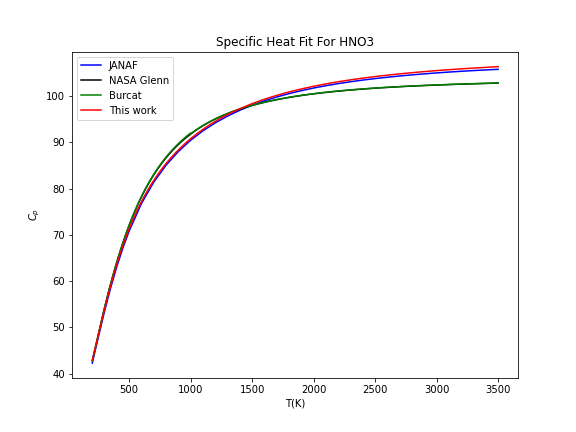
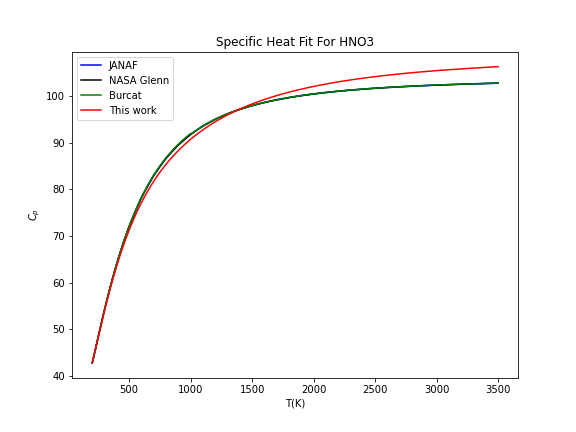
Update HNO3 and H2O2 JANAF data

diff --git a/Cp.py b/Cp.py
@@ -235,8 +235,8 @@ def get_polynomial_results(coefficients,x):
 
 def get_Tmax_this(Tmax_hitran):
     Tmax_this=dict()
-    species_list=['C2H2','ClO','CO2','CS','H2O','H2S','HCN','HI','HO2','N2','N2O','NH3','O2','PH3','SO','SO3','HCOOH']
-    Tmax_list=[1400.,1000.,3000.,3800.,3500.,2250.,1700.,3100.,1900.,2500.,1500.,1700.,500.,2200.,1500.,1400.,5000.]
+    species_list=['C2H2','ClO','CO2','H2O','H2S','HCN','HI','HO2','N2','N2O','NH3','O2','PH3','SO','SO3']
+    Tmax_list=[1400.,1000.,3000.,3500.,2250.,1700.,3100.,1900.,2500.,1500.,1700.,500.,2200.,1500.,1400.]
     for species in Tmax_hitran:
         Tmax=Tmax_hitran[species]
         if species in species_list:
@@ -726,21 +726,22 @@ if __name__ == '__main__':
     coe_nasa=get_nasa(Cp_dict)
     Tmax_this=get_Tmax_this(Tmax_hitran)
     di_J_dict, di_nasa_dict, di_Burcat_dict,di_Ca_dict, T_di_Furtenbacher, T_di_Furtenbacher_O2, T_di_SS_N, T_di_SS_P=compare_and_plot_Cp(Cp_dict,Tmax_hitran,Cp_JANAF,coe_Capitelli,coe_nasa,coe_Burcat,Tmax_this,Cp_theorets)
-    # diff_dict=compare_difference(di_J_dict, di_nasa_dict,di_Burcat_dict, di_Ca_dict, T_di_Furtenbacher, T_di_Furtenbacher_O2,T_di_SS_N, T_di_SS_P,Cp_dict,Tmax_this)
+    diff_dict=compare_difference(di_J_dict, di_nasa_dict,di_Burcat_dict, di_Ca_dict, T_di_Furtenbacher, T_di_Furtenbacher_O2,T_di_SS_N, T_di_SS_P,Cp_dict,Tmax_this)
     # fit_dictionary=get_coefficients(Cp_dict,Tmax_this)
     # store_coefficients(Tmax_this,fit_dictionary)
     # residual_dict=calculate_and_plot_residuals(Tmax_this,Cp_dict,fit_dictionary)
 
 #%%
+diff_dict=compare_difference(di_J_dict, di_nasa_dict,di_Burcat_dict, di_Ca_dict, T_di_Furtenbacher, T_di_Furtenbacher_O2,T_di_SS_N, T_di_SS_P,Cp_dict,Tmax_this)
 coe_Burcat.keys()
 # %%
 coe_Burcat['GeH4']
 # %%
 diff_dict['HCN']
 # %%
-diff_dict['SO']
+diff_dict['CS']
 # %%
-diff_dict['HCOOH']
+diff_dict['HNO3']
 # %%
 coe_Capitelli=get_Capitelli()
 coe_Capitelli['CO']
@@ -858,4 +859,6 @@ split_dict_theorets=create_split_dict_theorets()
 Cp_theorets=get_Cp_theorets(R,split_dict_theorets)
 # %%
 Cp_theorets
+# %%
+Cp_JANAF['H2O2']
 # %%
